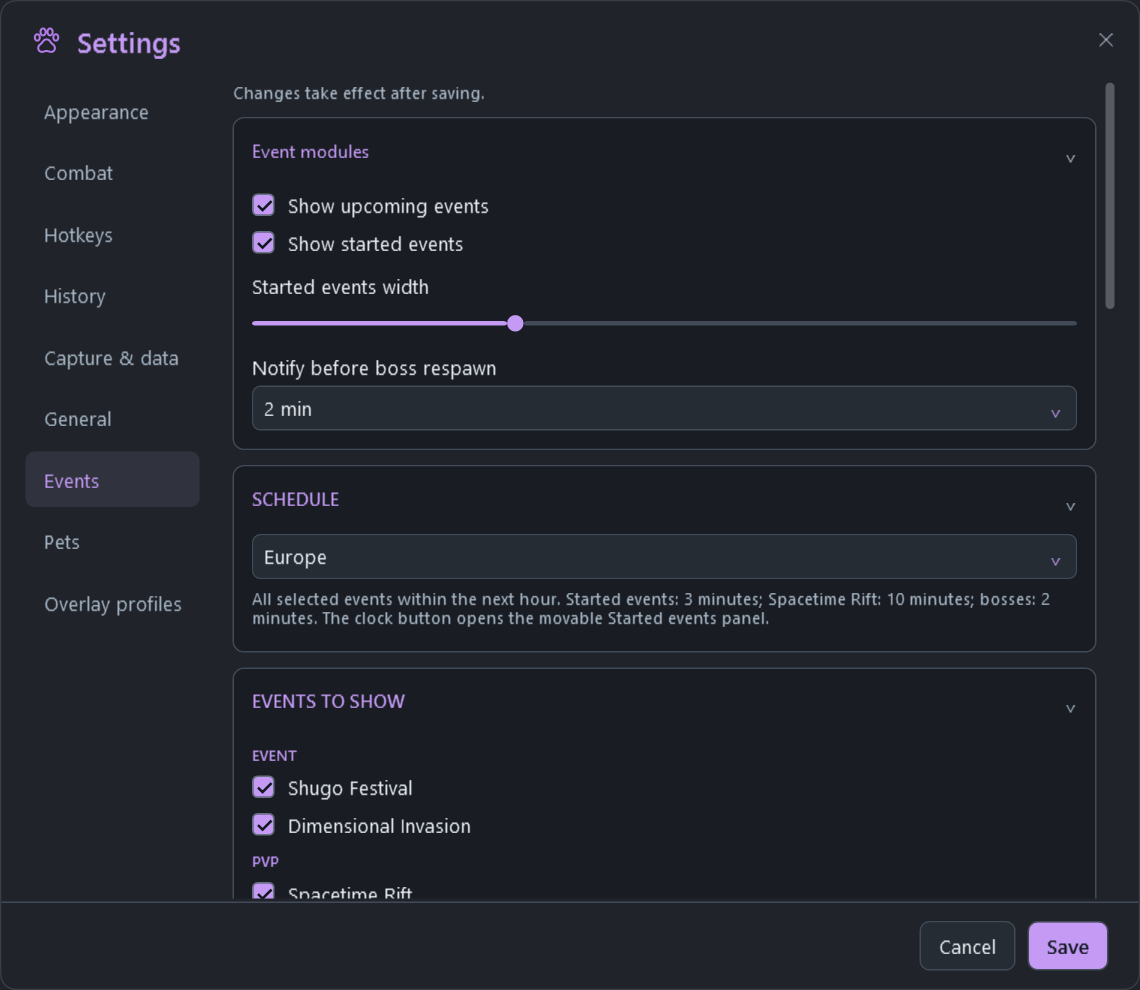
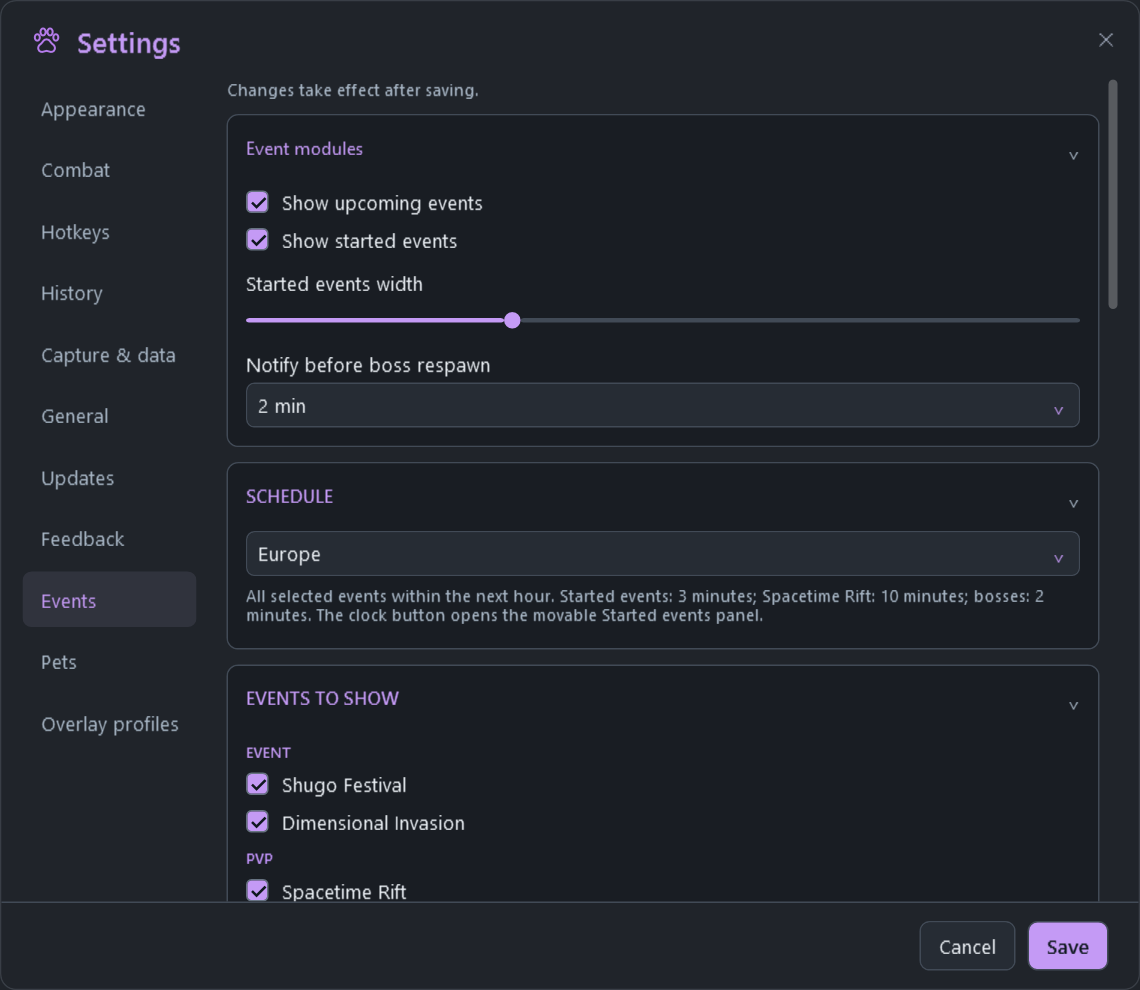
Promote complete Beta feature set to Stable 3.0.0 with dedicated update and feedback tabs

diff --git a/src/AionMeter.App/Windows/SettingsWindow.xaml b/src/AionMeter.App/Windows/SettingsWindow.xaml
@@ -54,6 +54,17 @@
         <Button Style="{StaticResource IconButton}" Content="" Click="Cancel_Click" HorizontalAlignment="Right" VerticalAlignment="Center" WindowChrome.IsHitTestVisibleInChrome="True" />
       </Grid>
       <TabControl Grid.Row="1" TabStripPlacement="Left" Margin="14,0,14,0" Background="Transparent" BorderThickness="0" Name="SettingsTabs">
+        <TabControl.Template>
+          <ControlTemplate TargetType="TabControl">
+            <Grid>
+              <Grid.ColumnDefinitions><ColumnDefinition Width="Auto"/><ColumnDefinition Width="*"/></Grid.ColumnDefinitions>
+              <ScrollViewer VerticalScrollBarVisibility="Auto" HorizontalScrollBarVisibility="Disabled" Focusable="False">
+                <TabPanel IsItemsHost="True" KeyboardNavigation.TabNavigation="Once"/>
+              </ScrollViewer>
+              <ContentPresenter x:Name="PART_SelectedContentHost" Grid.Column="1" ContentSource="SelectedContent"/>
+            </Grid>
+          </ControlTemplate>
+        </TabControl.Template>
         <TabItem Header="{Binding Literal17, Source={x:Static s:UiText.Current}}" Padding="12,10">
           <ScrollViewer VerticalScrollBarVisibility="Auto" HorizontalScrollBarVisibility="Auto" Padding="14,0,0,0">
             <StackPanel>
@@ -295,6 +306,12 @@
                   </DockPanel>
                 </StackPanel>
               </Border>
+            </StackPanel>
+          </ScrollViewer>
+        </TabItem>
+        <TabItem Header="Updates" Tag="updates" Padding="12,10">
+          <ScrollViewer VerticalScrollBarVisibility="Auto" HorizontalScrollBarVisibility="Auto" Padding="14,0,0,0">
+            <StackPanel>
               <Border Style="{StaticResource Section}">
                 <StackPanel>
                   <TextBlock Text="{Binding SecUpdates, Source={x:Static s:UiText.Current}}" Style="{StaticResource SectionLabel}" Margin="0,0,0,8" />
@@ -312,6 +329,12 @@
                   <TextBlock x:Name="UpdateState" Style="{StaticResource Hint}" Margin="0,6,0,0" Foreground="{StaticResource TextDim}" Visibility="Collapsed" />
                 </StackPanel>
               </Border>
+            </StackPanel>
+          </ScrollViewer>
+        </TabItem>
+        <TabItem Header="Feedback" Tag="feedback" Padding="12,10">
+          <ScrollViewer VerticalScrollBarVisibility="Auto" HorizontalScrollBarVisibility="Auto" Padding="14,0,0,0">
+            <StackPanel>
               <Border Style="{StaticResource Section}">
                 <StackPanel>
                   <TextBlock Text="{Binding ReportTitle, Source={x:Static s:UiText.Current}}" Style="{StaticResource SectionLabel}" Margin="0,0,0,8" />

diff --git a/src/AionMeter.App/Windows/SettingsWindow.xaml.cs b/src/AionMeter.App/Windows/SettingsWindow.xaml.cs
@@ -55,6 +55,8 @@ public partial class SettingsWindow : Window
         _meter = meter;
         InitializeComponent();
         BrandIcon.Source=AppIcon.Image;
+        foreach(var tab in SettingsTabs.Items.OfType<TabItem>().Where(t=>t.Tag is "updates" or "feedback"))
+            tab.Header=T.Localize((string)tab.Header);
         cards??=new TimerCards(meter,persistent:false);
         _cards=cards;
         _eventDraft=cards.CreatePreferencesDraft();
@@ -73,7 +75,7 @@ public partial class SettingsWindow : Window
         var recap=new CheckBox {Content=T.Localize("Show death recap"),IsChecked=meter.Settings.ShowDeathRecapModule,Style=(Style)FindResource("DarkCheck")};
         recap.Click+=(_,_)=>_moduleDraft.ShowDeathRecapModule=recap.IsChecked==true;
         if(((TabItem)SettingsTabs.Items[1]).Content is ScrollViewer {Content:Panel combat})combat.Children.Add(new Border {Child=recap,Style=(Style)FindResource("Section")});
-        SettingsTabs.Items.Add(new TabItem {Header=T.Localize("Pets"),Padding=new Thickness(12,10,12,10),Content=new ScrollViewer {VerticalScrollBarVisibility=ScrollBarVisibility.Auto,HorizontalScrollBarVisibility=ScrollBarVisibility.Auto,Padding=new Thickness(14,0,0,0),Content=new Border {Child=modules,Style=(Style)FindResource("Section"),VerticalAlignment=VerticalAlignment.Top}}});
+        SettingsTabs.Items.Add(new TabItem {Header=T.Localize("Pets"),Tag="pets",Padding=new Thickness(12,10,12,10),Content=new ScrollViewer {VerticalScrollBarVisibility=ScrollBarVisibility.Auto,HorizontalScrollBarVisibility=ScrollBarVisibility.Auto,Padding=new Thickness(14,0,0,0),Content=new Border {Child=modules,Style=(Style)FindResource("Section"),VerticalAlignment=VerticalAlignment.Top}}});
         SettingsTabs.Items.Add(new TabItem {Header=T.Localize("Overlay profiles"),Padding=new Thickness(12,10,12,10),Content=new ScrollViewer {VerticalScrollBarVisibility=ScrollBarVisibility.Auto,HorizontalScrollBarVisibility=ScrollBarVisibility.Auto,Padding=new Thickness(14,0,0,0),Content=new OverlayProfilesPanel()}});
         // Fold secondary sections and reflow rows instead of forcing a wide inner canvas.
         foreach (var tab in SettingsTabs.Items.OfType<TabItem>())

diff --git a/src/AionMeter.App/Services/PolishChecks.cs b/src/AionMeter.App/Services/PolishChecks.cs
@@ -50,14 +50,14 @@ internal static class PolishChecks
             window.UpdateLayout();
             var formLabels=Visuals(window).OfType<TextBlock>().Where(t=>t.IsVisible && !string.IsNullOrWhiteSpace(t.Text) && !InButton(t)).ToArray();
             check(formLabels.Length>10 && formLabels.All(t=>t.Foreground is System.Windows.Media.SolidColorBrush brush && brush.Color.R+brush.Color.G+brush.Color.B>210),"Settings labels and values remain light on dark expandable sections");
-            void Change(int tab,string label)
+            void Change(string tab,string label)
             {
-                tabs.SelectedIndex=tab;window.UpdateLayout();
+                tabs.SelectedItem=tabs.Items.OfType<TabItem>().Single(t=>Equals(t.Tag,tab));window.UpdateLayout();
                 var box=Visuals(window).OfType<CheckBox>().Single(c=>Equals(c.Content,UiText.Current.Localize(label)));
                 box.IsChecked=box.IsChecked!=true;
                 box.RaiseEvent(new RoutedEventArgs(CheckBox.ClickEvent));
             }
-            Change(6,"Show upcoming events");Change(7,"Sound on collection / level up");
+            Change("events","Show upcoming events");Change("pets","Sound on collection / level up");
             check(cards.Saved.EventWindowOpen==oldEvents && meter.Settings.PetNotify==oldPet,"Event and pet controls remain drafts until Save");
             window.Close();
             check(cards.Saved.EventWindowOpen==oldEvents && meter.Settings.PetNotify==oldPet,"Closing central Settings discards event and pet edits");

diff --git a/src/AionMeter.App/Services/InteractionChecks.cs b/src/AionMeter.App/Services/InteractionChecks.cs
@@ -351,8 +351,9 @@ internal static class InteractionChecks
                 var box=(System.Windows.Controls.TextBox)settings.FindName(field);
                 Check(box.IsReadOnly && box.Text==gesture && HotkeyManager.TryParse(gesture,out _,out _),"Module shortcut can be recorded by pressing keys: "+field);
             }
-            Check(((System.Windows.Controls.TabControl)settings.FindName("SettingsTabs")).Items.Count==9 && ((System.Windows.Controls.TextBox)settings.FindName("HkClick")).IsReadOnly,
-                "Central settings include Events, Pets and overlay profiles while retaining recorded hotkeys");
+            var categories=((System.Windows.Controls.TabControl)settings.FindName("SettingsTabs")).Items.OfType<System.Windows.Controls.TabItem>().ToArray();
+            Check(categories.Length==11 && categories.Count(t=>Equals(t.Tag,"updates"))==1 && categories.Count(t=>Equals(t.Tag,"feedback"))==1 && ((System.Windows.Controls.TextBox)settings.FindName("HkClick")).IsReadOnly,
+                "Central settings include separate Updates and Feedback tabs, Events, Pets and profiles while retaining recorded hotkeys");
             var headerPin=(System.Windows.Controls.Button)((System.Windows.Controls.ContentControl)activeOverlay.FindName("ShellPin")).Content;
             var beforePin=activeOverlay.Left;var clickBefore=meter.Settings.ClickThrough;
             headerPin.RaiseEvent(new RoutedEventArgs(System.Windows.Controls.Button.ClickEvent));

diff --git a/src/AionMeter.App/Services/Beta4Checks.cs b/src/AionMeter.App/Services/Beta4Checks.cs
@@ -59,6 +59,8 @@ internal static class Beta4Checks
         var rejected=false;try {OverlayProfiles.Apply(profile with {Layout=badLayout},layoutSettings,layoutTimers);}catch(JsonException){rejected=true;}
         Check(rejected && layoutSettings.OverlayLeft==-1200,"Invalid profile values are rejected before changing the current layout");
         var final = ReleaseVersion.Parse("2.5.1")!;
+        var majorPromotion = new AppSettings {Transient=true,UpdateChannel="Beta",LastStartedRelease="2.6.0-beta.2"};
+        Check(majorPromotion.ApplyReleaseTransition(ReleaseVersion.Parse("3.0.0")!) && majorPromotion.UpdateChannel=="Stable" && majorPromotion.LastStartedRelease=="3.0.0","Promoting the 2.6 Beta series to 3.0.0 switches subscribers and the recorded version to Stable");
         var promoted = new AppSettings { Transient = true, UpdateChannel = "Beta", LastStartedRelease = "2.5.1-beta.5", SkippedUpdate = "v2.5.1-beta.4" };
         Check(promoted.ApplyReleaseTransition(final) && promoted.UpdateChannel == "Stable" && promoted.SkippedUpdate is null, "Promoting Beta to Stable automatically moves the saved update channel to Stable");
         promoted.UpdateChannel = "Beta";

diff --git a/src/AionMeter.App/Services/UiText.LayoutComparison.cs b/src/AionMeter.App/Services/UiText.LayoutComparison.cs
@@ -4,6 +4,8 @@ public sealed partial class UiText
 {
     private static readonly Dictionary<string,(string De,string Ru,string Fr)> LayoutComparisonText=new()
     {
+        ["Updates"]=("Updates","Обновления","Mises à jour"),
+        ["Feedback"]=("Feedback","Обратная связь","Avis"),
         ["Changes take effect after saving."]=("Änderungen werden erst mit Speichern übernommen.","Изменения применяются после сохранения.","Les modifications prennent effet après enregistrement."),
         ["Differences describe these runs; healing, incoming damage and duration depend on the fight."]=("Die Differenzen beschreiben diese Läufe; Heilung, erlittener Schaden und Dauer hängen vom Kampf ab.","Различия описывают эти бои; лечение, входящий урон и длительность зависят от боя.","Les écarts décrivent ces combats ; soins, dégâts reçus et durée dépendent du combat."),
         ["Overlay profiles"]=("Overlay-Profile","Профили оверлеев","Profils des overlays"),

diff --git a/README.md b/README.md
@@ -6,10 +6,10 @@ A separate, always-on-top Windows DPS meter for **AION 2**, by Zerafithekitten. 
 
 | Channel | Current version | What it includes |
 | --- | --- | --- |
-| **Stable** | **[v2.5.5](https://github.com/Zerafithekitten/CatScratch/releases/tag/v2.5.5)** | Boss personal bests, recent teammates, death recap, background updates, separate Started events, improved group-search handling and ten patchnotes tabs on the left. |
-| **Beta** | **[v2.6.0-beta.2](https://github.com/Zerafithekitten/CatScratch/releases/tag/v2.6.0-beta.2)** | Everything in Stable, plus optional quiet automatic start/close with AION 2, a five-member roster repair, a capture-folder shortcut and a compact five-hit death recap, optional overlay profiles and boss comparisons, central Events/Pets settings and per-module position pins. |
+| **Stable** | **[v3.0.0](https://github.com/Zerafithekitten/CatScratch/releases/tag/v3.0.0)** | Complete tested Beta feature set: compact class-colored rows, central settings with separate Updates/Feedback tabs, position pins, overlay profiles, boss comparisons, compact recap, quiet game companion and safer preferences. |
+| **Beta** | [Last prerelease: v2.6.0-beta.2](https://github.com/Zerafithekitten/CatScratch/releases/tag/v2.6.0-beta.2) | Its features are included in Stable 3.0.0. Select Beta only if you want future prereleases. |
 
-English is the default. German, Russian and French are also available. Screenshots use synthetic sample data; names and numbers are examples. Event-module previews show **v2.5.4-beta.4**.
+English is the default. German, Russian and French are also available. Screenshots use synthetic sample data; names and numbers are examples. Stable 3.0.0 includes the former Beta features.
 
 ## Contents
 
@@ -27,7 +27,7 @@ English is the default. German, Russian and French are also available. Screensho
 - [Updates and release channels](#updates-and-release-channels)
 - [Patchnotes](#patchnotes)
 - [Controls and shortcuts](#controls-and-shortcuts)
-- [Automatic start and close with AION 2 (Beta)](#automatic-start-and-close-with-aion-2-beta)
+- [Automatic start and close with AION 2](#automatic-start-and-close-with-aion-2)
 - [Languages and stream mode](#languages-and-stream-mode)
 - [Debug recordings and feedback](#debug-recordings-and-feedback)
 - [Limitations](#limitations)
@@ -41,7 +41,7 @@ English is the default. German, Russian and French are also available. Screensho
 4. Teleport or change zones once while the meter is running so it receives fresh character information.
 5. Use borderless windowed mode to keep the overlay visible above the game.
 
-Both Setup and portable installations support in-app updates. Your settings and local records are kept in `userdata` beside the program. In the current Beta, the installed version appears underneath the CatScratch title; the footer is reserved for module buttons.
+Both Setup and portable installations support in-app updates. Your settings and local records are kept in `userdata` beside the program. The installed version appears underneath the CatScratch title; the footer is reserved for module buttons.
 
 ## DPS meter and fight details
 
@@ -110,7 +110,7 @@ Unknown CP/GS remain dashes until usable values arrive; missing values do not er
 
 ## Death recap
 
-The **tombstone icon** enables or disables the module. When your character dies, a compact recap shows received damage from the previous **ten seconds**: attackers, skills, hit amounts, time before death and attacker totals. **The current Beta** simplifies this to the five latest hits, newest first, with red damage values and their total. It opens centered in the upper half of the meter screen, above the standard resurrection controls, and remains movable.
+The **tombstone icon** enables or disables the module. When your character dies, a compact recap shows only the five latest received hits from the previous **ten seconds**, newest first, with attackers, skills, time before death, red damage values and their matching total. It opens centered in the upper half of the meter screen, above the standard resurrection controls, and remains movable.
 
 <img src="docs/screenshots/death-recap.png" alt="Death recap listing recent attackers, skills and incoming damage" width="400" />
 
@@ -120,7 +120,7 @@ It closes when fresh positive own HP or a map reload confirms the character is a
 
 <img src="docs/screenshots/overlay-profiles.png" alt="Optional dark overlay profile settings" width="640" />
 
-The current Beta adds **Settings > Overlay profiles**. Arrange the modules first, enter a name and choose **Save new profile**. Use **Apply profile**, **Update selected** or **Delete selected** to manage layouts. Applying acts immediately and closes Settings, discarding any unsaved edits in other tabs.
+Use **Settings > Overlay profiles**. Arrange the modules first, enter a name and choose **Save new profile**. Use **Apply profile**, **Update selected** or **Delete selected** to manage layouts. Applying acts immediately and closes Settings, discarding any unsaved edits in other tabs.
 
 Profiles retain meter and module placement, open states, position pins, UI scale, opacity, row size and display choices. Capture, update channel, hotkeys, autostart, event schedules and sounds stay unchanged. Profiles are optional and switch only when you apply one. Death recap keeps its automatic upper-center default.
 
@@ -128,7 +128,7 @@ Profiles retain meter and module placement, open states, position pins, UI scale
 
 <img src="docs/screenshots/boss-comparison.png" alt="Personal boss fight statistics side by side" width="580" />
 
-In the current Beta, open a finished boss fight from Statistics or saved history and use **Boss fight comparison** in its statistics header. The last earlier matching recorded fight is compared automatically. Both run cards show the boss name prominently, with date and duration beneath; no manual fight list or technical identifiers. The DPS meter remains Live.
+Open a finished boss fight from Statistics or saved history and use **Boss fight comparison** in its statistics header. The last earlier matching recorded fight is compared automatically. Both run cards show the boss name prominently, with date and duration beneath; no manual fight list or technical identifiers. The DPS meter remains Live.
 
 The table compares your duration, DPS, damage, healing, damage taken and deaths with signed differences (current minus previous). Matches require the same boss, map ID, character/server/class, outcome and damage mode. Possibly partial recordings are flagged and unknown deaths remain unknown. Difficulty variants without different map IDs cannot be distinguished.
 
@@ -136,7 +136,7 @@ Comparisons use existing session fights and the ten saved fights. Save boss figh
 
 ## Fight selection and saved fights
 
-Use **Statistics** for the live fight, current-session fights and **All saved fights**. In the current Beta, selecting an earlier session or saved fight opens its detailed statistics immediately in a separate window, starting with your own character when available. The DPS meter stays on **Live** throughout; opening history never replaces its current fight or room stats. Repeated clicks on the same fight reuse its statistics window. Boss bests and recent teammates have their own buttons; they are not duplicated in Statistics or Feedback.
+Use **Statistics** for the live fight, current-session fights and **All saved fights**. Selecting an earlier session or saved fight opens its detailed statistics immediately in a separate window, starting with your own character when available. The DPS meter stays on **Live** throughout; opening history never replaces its current fight or room stats. Repeated clicks on the same fight reuse its statistics window. Boss bests and recent teammates have their own buttons; they are not duplicated in Statistics or Feedback.
 
 Saving is optional. Press the **save button after combat** to keep a full fight. The saved-fight history retains the **ten newest saved fights**. This limit applies to full fight records only, not permanent boss bests or recent teammates. Automatic saving is disabled by default.
 
@@ -148,7 +148,7 @@ Saving is optional. Press the **save button after combat** to keep a full fight.
 
 ## Pet tracker
 
-In the current Beta, **Settings > Pets** contains the pet module toggle, width and collection/level-up sound option. Use Save to apply or Cancel to discard pet edits; the pet overlay has a position pin instead of a settings gear.
+**Settings > Pets** contains the pet module toggle, width and collection/level-up sound option. Use Save to apply or Cancel to discard pet edits; the pet overlay has a position pin instead of a settings gear.
 
 Use the **paw button beside the CatScratch title** to toggle the compact pet tracker. Personally attacked, confirmed pet-source monsters add a row with pet name, soul count and a progress bar toward the next level. The three most recently attacked pets are retained, newest first; maxed pets show **MAX**. Soul loot updates the count after a kill.
 
@@ -164,11 +164,11 @@ The bundled catalog contains confirmed Global monster-source mappings for 165 pe
 
 ## Events, boss timers and sounds
 
-In the current Beta, use the **single gear in the DPS meter > Events** for event visibility, region, selection, module widths, opacity, boss reminders and all event sounds. Event modules no longer have their own gear. Use Save to apply or Cancel to discard these options; sound previews and custom audio selection stay inside the same Settings window.
+use the **single gear in the DPS meter > Events** for event visibility, region, selection, module widths, opacity, boss reminders and all event sounds. Event modules no longer have their own gear. Use Save to apply or Cancel to discard these options; sound previews and custom audio selection stay inside the same Settings window.
 
 Selected events and enabled world-boss timers within the next hour appear as compact movable cards. Both modules restore their own positions and open states.
 
-The DPS meter is the single taskbar entry; display modules do not add separate taskbar/Alt-Tab entries or native Windows Snap frame styles. In the current Beta, each display module has a matching position pin at the upper right. Pinning prevents dragging without changing button interaction or click-through. Pin states survive restarting and are stored with optional overlay profiles; unpin to move a module again.
+The DPS meter is the single taskbar entry; display modules do not add separate taskbar/Alt-Tab entries or native Windows Snap frame styles. Each display module has a matching position pin at the upper right. Pinning prevents dragging without changing button interaction or click-through. Pin states survive restarting and are stored with optional overlay profiles; unpin to move a module again.
 
 **Upcoming and Started are separate.** At the start, an entry leaves Upcoming and moves into the movable **Started events** module. Open that module with the small clock button in the Upcoming header; drag its header or cards to place it, and use its X to close it. Click-through and show/hide all windows work for both modules.
 
@@ -198,7 +198,7 @@ Optional per-event and pet unlock/level-up sounds support preview and volume set
 
 ## Updates and release channels
 
-Choose **Stable** or **Beta** in **Settings > General > Updates**. Stable is the default download; beta releases are marked as prereleases and do not replace it. Switching channels may offer an older version when returning to Stable.
+Choose **Stable** or **Beta** in **Settings > Updates**. Stable is the default download; beta releases are marked as prereleases and do not replace it. Switching channels may offer an older version when returning to Stable.
 
 With automatic updates enabled, CatScratch checks shortly after startup and **every ten minutes**. It downloads, verifies and extracts an available update in the background while the current meter keeps running.
 
@@ -222,6 +222,8 @@ Open **Patch notes** from the meter or Settings. Versions are listed **on the le
 
 ## Controls and shortcuts
 
+The single meter gear opens central Settings. Updates and Feedback have separate tabs; General contains test mode, language and the optional game companion. Event and pet options apply with Save and are discarded with Cancel.
+
 Record a combination in **Settings > Hotkeys** and save. Defaults:
 
 | Action | Shortcut |
@@ -240,11 +242,15 @@ The all-window shortcut restores the previously open windows and their positions
 
 <details><summary>Settings preview</summary>
 
-<img src="docs/screenshots/settings.png" alt="Current CatScratch settings in the meter's dark turquoise style" width="760" />
+<img src="docs/screenshots/settings.png" alt="Current CatScratch settings in the meter's dark gray and purple style" width="760" />
+
+<img src="docs/screenshots/updates-settings.png" alt="Independent Updates settings tab" width="760" />
+
+<img src="docs/screenshots/feedback-settings.png" alt="Independent Feedback settings tab" width="760" />
 
 </details>
 
-## Automatic start and close with AION 2 (Beta)
+## Automatic start and close with AION 2
 
 **Purpose:** CatScratch can be ready whenever you play, without remembering to open it first. When the game closes, the meter closes too. Only a small game watcher stays idle between sessions; the full meter and packet capture do not need to stay running all day.
 
@@ -268,11 +274,11 @@ This keeps the watcher separate from the program files that an update replaces, 
 - The watcher does not capture game traffic, download updates, upload files, read chat or ask for account credentials. Network capture and normal update checks belong to the meter after it starts.
 - The task runs for the signed-in user with the highest available privileges, matching CatScratch's existing administrator requirement. It does not create a SYSTEM service or store your Windows password.
 - The shipped local script uses `-ExecutionPolicy Bypass` for its own PowerShell process. CatScratch does not change the machine-wide PowerShell execution policy. Managed Windows restrictions may still prevent it from running; failed setup is reported rather than silently enabling the option.
-- Scripts and configuration are kept locally in `userdata/game-start`. You can inspect the [watcher source](https://github.com/Zerafithekitten/CatScratch/blob/v2.6.0-beta.2/src/AionMeter.App/Services/GameLifetime.cs) and [windowless launcher source](https://github.com/Zerafithekitten/CatScratch/blob/v2.6.0-beta.2/src/AionMeter.App/Launcher/GameWatcherLauncher.cs).
+- Scripts and configuration are kept locally in `userdata/game-start`. You can inspect the [watcher source](https://github.com/Zerafithekitten/CatScratch/blob/v3.0.0/src/AionMeter.App/Services/GameLifetime.cs) and [windowless launcher source](https://github.com/Zerafithekitten/CatScratch/blob/v3.0.0/src/AionMeter.App/Launcher/GameWatcherLauncher.cs).
 
 ### Why no PowerShell window should appear
 
-The current Beta uses a tiny windowless starter that creates PowerShell with **CreateNoWindow**. The watcher remains in the background without allocating a console window, including the brief console flash possible with the previous direct PowerShell startup. Existing enabled installations switch to the quiet task when the updated meter first starts. Automated checks verify that the watcher has no console window.
+CatScratch uses a tiny windowless starter that creates PowerShell with **CreateNoWindow**. The watcher remains in the background without allocating a console window, including the brief console flash possible with the previous direct PowerShell startup. Existing enabled installations switch to the quiet task when the updated meter first starts. Automated checks verify that the watcher has no console window.
 
 ## Languages and stream mode
 
@@ -284,11 +290,11 @@ Test mode provides isolated sample fights and pet progress. Test fights cannot b
 
 ## Debug recordings and feedback
 
-Enable **Recent debug buffer** in **Settings > Capture & data**. **Save recent debug** exports up to the preceding **60 seconds** to `userdata/captures`. The buffer is disabled by default and capped at 32 MB of accounted packet storage; heavy traffic can shorten the available time. Continuous packet recording is also available. **Open captures folder** (Beta) opens the recording directory directly from this section, creating it if needed.
+Enable **Recent debug buffer** in **Settings > Capture & data**. **Save recent debug** exports up to the preceding **60 seconds** to `userdata/captures`. The buffer is disabled by default and capped at 32 MB of accounted packet storage; heavy traffic can shorten the available time. Continuous packet recording is also available. **Open captures folder** opens the recording directory directly from this section, creating it if needed.
 
 Only packets received while recording is enabled can be saved. For group issues, include the actual join/leave; for resurrection issues, include death and revival. Short captures can lack earlier character or protocol context. Captures can contain character names; keep them private. Nothing is uploaded automatically.
 
-Use **Report a bug / request a feature** in Settings > General > Feedback, or [open an issue](https://github.com/Zerafithekitten/CatScratch/issues/new/choose). Reports must be in **English**; a GitHub account is required. Please include the version/channel, what happened and how to reproduce it. Feedback opens GitHub without sending logs or captures automatically.
+Use **Report a bug / request a feature** in Settings > Feedback, or [open an issue](https://github.com/Zerafithekitten/CatScratch/issues/new/choose). Reports must be in **English**; a GitHub account is required. Please include the version/channel, what happened and how to reproduce it. Feedback opens GitHub without sending logs or captures automatically.
 
 ## Limitations
 

diff --git a/data/patchnotes-en.md b/data/patchnotes-en.md
@@ -1,3 +1,54 @@
+## CatScratch v3.0.0
+
+### Complete Beta feature set promoted to Stable
+This release brings all changes tested in the 2.5.6 and 2.6.0 Beta series to Stable, together with separate Updates and Feedback settings tabs. It replaces Stable 2.5.5. Existing local settings and records are retained.
+
+### One organized Settings window
+- The DPS meter contains the single Settings gear. Event and pet overlays use their own dedicated tabs in that central window rather than opening separate preference menus.
+- **Updates** is now an independent tab for the update channel, background checks, installed version, manual checks and patch notes. **Feedback** has its own tab containing the bug-report / feature-request controls. Both sections have been removed from General.
+- **General** keeps test mode, language and the optional AION 2 companion. **Events** groups visibility, schedule region, event selection, module widths, opacity, boss reminders and sound preferences. **Pets** contains tracker visibility, width and collection/level-up sounds.
+- Related options use compact, expandable sections. The category list can scroll in smaller windows, form rows wrap and labels remain light against neutral gray surfaces.
+- Event, pet and death-recap options now follow **Save / Cancel**. Closing without saving discards their edits. Explicit actions such as sound previews, debug exports and managing saved layout profiles remain immediate.
+
+### Compact meter and consistent appearance
+- Retained the familiar DPS meter layout while narrowing player rows. Each row keeps its class emblem, class-colored background progress fill, DPS, damage percentage and red incoming damage. Removed the thin progress strip and total outgoing damage from these rows; detailed combat statistics remain available in the fight window.
+- CP and GS use the available second-line width, improving readability in narrow meters. Class, healing and damage colors keep their meanings.
+- Neutral dark gray backgrounds and restrained lavender accents are used throughout the interface. The new outlined purple cat paw has four toes and a pad; window headers use a scalable vector, while the executable and tray include native icon sizes.
+- The installed version appears beneath the CatScratch title. Footer controls have matching proportions, and the death-recap tombstone toggle is first on the left.
+- The Rotation tab is explicitly marked **WORK IN PROGRESS**.
+
+### Position pins and optional overlay profiles
+- Display modules have a compact position pin at the upper right. Pinning prevents accidental dragging while leaving controls, resizing and click-through behavior independent. Pin states persist across restarts.
+- **Settings > Overlay profiles** can save, apply, update and delete named layouts. Profiles include module positions, sizes, visibility, appearance and position pins.
+- Layout profiles do not change capture configuration, update subscriptions, hotkeys or game-start preferences. Applying a profile acts immediately, closes Settings and discards other unsaved edits.
+
+### Automatic boss fight comparison
+- Open the statistics for a finished boss fight and use the comparison button. CatScratch selects the latest earlier matching recorded run automatically; both cards clearly show the boss name, date and duration.
+- Compares duration, DPS, outgoing damage, healing, incoming damage and deaths. Matching requires the same boss, map, character, outcome and damage-counting mode. Unknown death counts remain unknown, and possibly partial recordings are flagged.
+- Healing and incoming-damage differences are descriptive rather than automatic performance judgments. The comparison uses existing session and saved fights; automatic history saving is not enabled implicitly. Save fights if you want comparisons after restarting.
+- Instance variants sharing a map ID cannot be distinguished automatically. Opening old fights or comparisons leaves the meter following **Live**; reopening the same fight reuses its statistics window.
+
+### Compact death recap
+- Shows only the five latest received hits, newest first, with red damage values and a total for those displayed hits. Removed duplicate attacker totals, the routine footer, scrolling and the resize grip.
+- Defaults to the upper center of the meter's screen, above standard resurrection controls. Its dark panel remains readable in click-through mode. Dragging and automatic hiding after confirmed resurrection remain available.
+- The tombstone button and configurable death-recap hotkey remain available through the meter and central Settings.
+
+### Group display and debug convenience
+- Fixed a five-player roster case where a member could disappear when the server encoded in their database ID differed from explicit server fields. Validated roster records now preserve the member's identity, class, CP and GS consistently.
+- Added **Open captures folder** beside **Save recent debug**, making locally saved parser recordings easier to find. Recordings remain local unless you choose to share them.
+
+### Optional automatic start and close with AION 2
+- Enable the combined companion option in **Settings > General**, choose the actual game executable and save. It is off by default. Detection follows the selected executable, including launches through Steam or Purple.
+- A per-user watcher starts at Windows sign-in and launches CatScratch once per detected game session. CatScratch closes after the game has been absent for ten seconds; manually quitting the meter does not cause repeated launches during that same session.
+- A windowless helper starts the local PowerShell watcher without allocating a console, preventing the brief PowerShell flash. Existing enabled installations migrate to this quieter task. Disabling the option removes its registration; uninstall removes the task too.
+
+### Updates, persistence and verification
+- Users moving from the Beta series to **3.0.0** automatically return to the **Stable** update channel when the promoted version starts. The displayed installed version is **3.0.0**, without a Beta suffix. A later manual Beta selection remains selected until a subsequent promotion.
+- Background checks continue shortly after startup and every ten minutes. A selected-channel update is downloaded, verified and prepared before restart is offered. Restart still requires the user's action.
+- Successful updated startup removes the old update backup, prepared package and download. Failed updates retain recovery files; settings, saved fights, boss bests, recent players and captures are preserved.
+- Settings, event preferences and overlay profiles use atomic writes with a last readable backup. Added recovery, canceled-edit, narrow-row and text-contrast checks alongside the existing combat and window tests.
+- Release verification covers the core test suite, overlay interaction and shutdown, event audio, boss records, Beta-to-Stable transition, the quiet game companion, and direct updates with preserved user data.
+
 ## CatScratch v2.6.0-beta.2
 
 ### Visual polish and safer preferences

diff --git a/AGENTS.md b/AGENTS.md
@@ -6,6 +6,8 @@ Preserve the existing DPS meter layout. Use a crisp vector purple cat paw with f
 
 Keep one visible settings gear, in the DPS meter. Centralize event preferences and audio in Settings > Events and pet options in Settings > Pets; other modules must not expose their own settings gears. Show the installed version under the CatScratch title, keep the footer for controls and place the tombstone toggle first. Match functional icon sizes and spacing. Module pins block dragging only, preserve interactive controls and click-through, persist independently and participate in overlay profiles.
 
+Updates and Feedback are independent Settings tabs, removed from General. Update channel and manual update checks belong in Settings > Updates; Feedback contains only the report controls.
+
 The owner explicitly requires every CatScratch change, new window, menu, control and feature to match the current DPS meter. This preference is permanent. Reuse the meter's neutral dark gray surfaces, restrained lavender accents, Segoe UI typography, compact rounded panels, class glyphs and existing button/control styles. Use the purple cat paw branding. Do not introduce a separate visual design or native white controls. Shared resources for interactive meter tools belong in Theme/MeterTools.xaml.
 
 The DPS meter must provide a small trophy icon that opens permanent personal boss bests. Last played with has its own view and a copy-name button for each teammate. Stream mode must mask displayed and copied names consistently.

diff --git a/RELEASE-POLICY.md b/RELEASE-POLICY.md
@@ -1,5 +1,7 @@
 # Release policy
 
+On 2026-10-16 the owner explicitly authorized promoting the complete current Beta feature set to Stable as **3.0.0**, superseding the earlier planned 2.6.0 Stable version. First separate Updates and Feedback into their own central Settings tabs. Publish detailed Stable notes covering all changes since Stable 2.5.5, and retain the automatic Beta-to-Stable channel transition.
+
 On 2026-10-16 the owner reviewed the local polish build and explicitly authorized publishing it as v2.6.0-beta.2 after error checks. General backgrounds stay neutral gray; purple is reserved for branding and restrained accents. Preserve class colors and full-row player progress fills. Stable remains unchanged.
 
 On 2026-10-16 the owner explicitly requested the next version series 2.6.0, carrying all previous 2.5.6 Beta changes (including Beta 7) into the eventual Stable 2.6.0 release. Publish current work as 2.6.0-beta.1 for testing; Stable still requires separate approval. The temporary upload hold was explicitly lifted once this work is finished.
